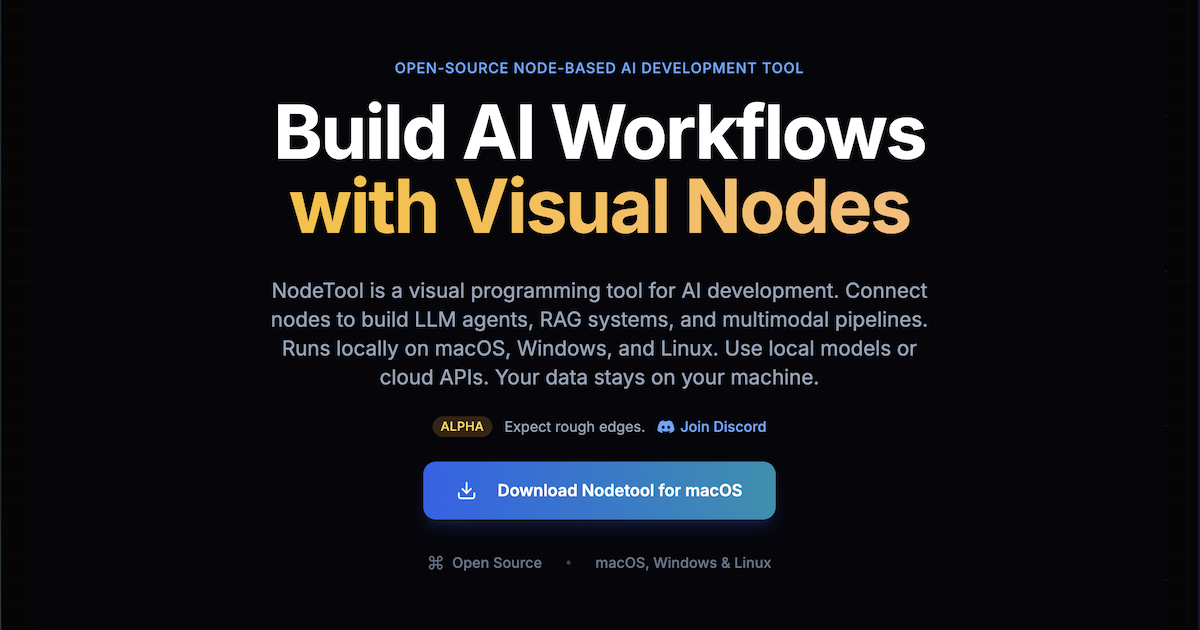
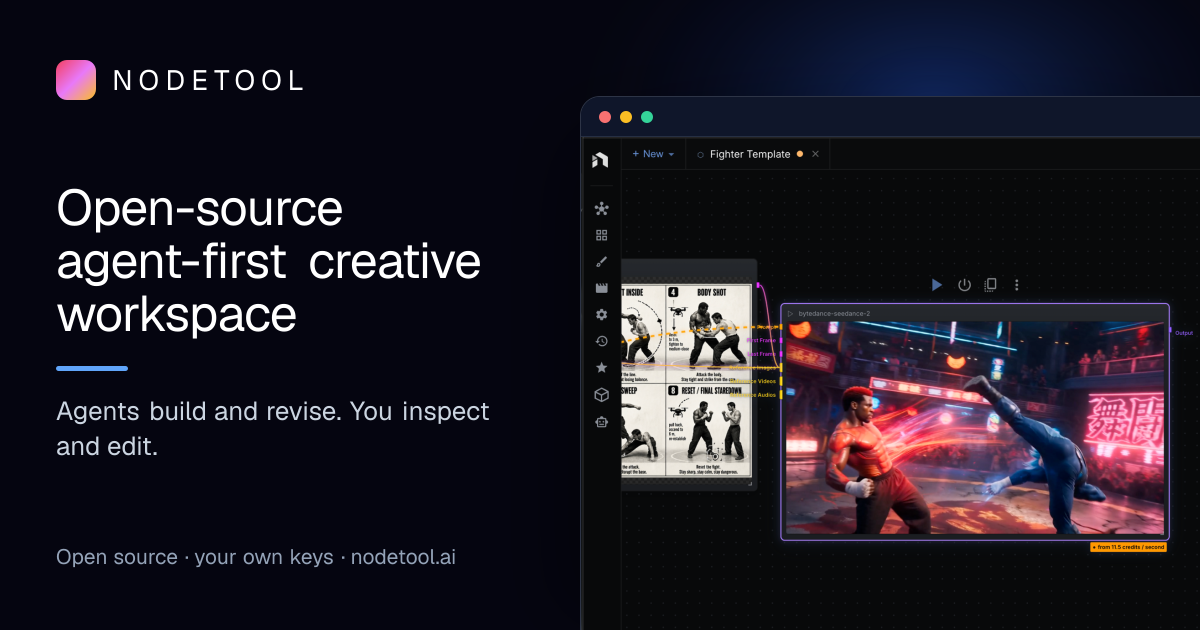
Replace stale share image and give every marketing page one
/preview.png was a screenshot of the old "Build AI Workflows with Visual
Nodes" hero with an ALPHA badge. The root layout set it as twitter:image,
which every route inherited, so X showed it even on pages with their own
card. 89 routes also had no og:image because their openGraph replaced the
root one.

- Save the root opengraph-image card as public/preview.png.
- Drop the root twitter image so Twitter falls back to each page's og:image.
- Add DEFAULT_OG_IMAGES to routes without their own opengraph-image.
- Remove the /preview.png overrides from /developers and /marketing.

Claude-Session: https://claude.ai/code/session_01Fi4CdCCnQLF3uAmpPAuaLj

diff --git a/marketing/src/app/layout.tsx b/marketing/src/app/layout.tsx
@@ -4,6 +4,7 @@ import "./globals.css";
 import Script from "next/script";
 import MotionProvider from "../components/MotionProvider";
 import JsonLd from "../components/JsonLd";
+import { DEFAULT_OG_IMAGES } from "../lib/defaultOgImage";
 import {
   organizationSchema,
   softwareApplicationSchema,
@@ -105,12 +106,7 @@ export const metadata: Metadata = {
       "Open-source agent-first creative workspace. Create images, video, audio, and text with agents, then take over and edit anything yourself. You get an editable project, not just a finished file.",
     url: "https://nodetool.ai",
     siteName: "NodeTool",
-    images: [
-      {
-        url: "/preview.png",
-        alt: "NodeTool | Open-source agent-first creative workspace",
-      },
-    ],
+    images: DEFAULT_OG_IMAGES,
     locale: "en_US",
     type: "website",
   },
@@ -118,7 +114,6 @@ export const metadata: Metadata = {
   // openGraph, which a root value would override on every child route.
   twitter: {
     card: "summary_large_image",
-    images: ["/preview.png"],
   },
 };
 

diff --git a/marketing/src/app/faq/page.tsx b/marketing/src/app/faq/page.tsx
@@ -7,6 +7,7 @@ import TrackedLink from "@/components/TrackedLink";
 import FaqBlock from "@/components/FaqBlock";
 import { breadcrumbSchema, faqPageSchema } from "@/lib/jsonld";
 import { faqByCategory, faqEntries } from "@/data/faqEntries";
+import { DEFAULT_OG_IMAGES } from "@/lib/defaultOgImage";
 
 export const metadata: Metadata = {
   title: "NodeTool FAQ — the agent-first creative workspace",
@@ -14,6 +15,7 @@ export const metadata: Metadata = {
     "Answers about NodeTool: how pricing with your own API keys works, Studio compared with Cloud, which models are supported, how it compares with other tools, and a short glossary of common terms.",
   alternates: { canonical: "/faq" },
   openGraph: {
+    images: DEFAULT_OG_IMAGES,
     title: "NodeTool FAQ",
     description:
       "Pricing with your own keys, Studio compared with Cloud, supported models, comparisons, and a short glossary.",

diff --git a/marketing/src/app/templates/page.tsx b/marketing/src/app/templates/page.tsx
@@ -10,6 +10,7 @@ import TrackedLink from "@/components/TrackedLink";
 import { SmartDownloadButton } from "@/app/SmartDownloadButton";
 import { templateEntries, type TemplateEntry } from "@/data/templates";
 import { recipeEntries } from "@/data/recipes";
+import { DEFAULT_OG_IMAGES } from "@/lib/defaultOgImage";
 
 const BASE_URL = "https://nodetool.ai";
 
@@ -19,6 +20,7 @@ export const metadata: Metadata = {
     "Browse editable NodeTool workflow templates for image, video, audio, agents, and marketing. Open any in Studio, or explore simplified runnable mini apps.",
   alternates: { canonical: `${BASE_URL}/templates` },
   openGraph: {
+    images: DEFAULT_OG_IMAGES,
     title: "AI Workflow Templates — NodeTool",
     description:
       "Browse editable NodeTool workflow templates for image, video, audio, agents, and marketing. Open any in Studio, or explore simplified runnable mini apps.",

diff --git a/marketing/src/app/recipes/page.tsx b/marketing/src/app/recipes/page.tsx
@@ -6,6 +6,7 @@ import JsonLd from "@/components/JsonLd";
 import TrackedLink from "@/components/TrackedLink";
 import RecipeCard from "@/components/RecipeCard";
 import { recipeEntries } from "@/data/recipes";
+import { DEFAULT_OG_IMAGES } from "@/lib/defaultOgImage";
 
 const BASE_URL = "https://nodetool.ai";
 export const metadata: Metadata = {
@@ -14,6 +15,7 @@ export const metadata: Metadata = {
     "Make product ads, multilingual videos, catalogue images, and storyboards with NodeTool's guided flows. Follow each step with real UI examples.",
   alternates: { canonical: `${BASE_URL}/recipes` },
   openGraph: {
+    images: DEFAULT_OG_IMAGES,
     title: "Guided AI recipes | NodeTool",
     description:
       "Make product ads, multilingual videos, catalogue images, and storyboards with NodeTool's guided flows. Follow each step with real UI examples.",

diff --git a/marketing/src/app/ideas/page.tsx b/marketing/src/app/ideas/page.tsx
@@ -4,6 +4,7 @@ import SiteHeader from "@/components/SiteHeader";
 import SiteFooter from "@/components/SiteFooter";
 import JsonLd from "@/components/JsonLd";
 import { ideaCategories } from "@/data/ideasEntries";
+import { DEFAULT_OG_IMAGES } from "@/lib/defaultOgImage";
 
 export const metadata: Metadata = {
   title: "AI workflow ideas — NodeTool",
@@ -11,6 +12,7 @@ export const metadata: Metadata = {
     "Ideas for what to build in NodeTool, grouped by category: image and video generation, audio and voice, agents and research, marketing content, and data workflows.",
   alternates: { canonical: "/ideas" },
   openGraph: {
+    images: DEFAULT_OG_IMAGES,
     title: "AI workflow ideas — NodeTool",
     description:
       "What to build in NodeTool: image, video, audio, agents, marketing, and data workflows.",

diff --git a/marketing/src/app/showcase/workflow/[slug]/page.tsx b/marketing/src/app/showcase/workflow/[slug]/page.tsx
@@ -6,6 +6,7 @@ import SiteFooter from "@/components/SiteFooter";
 import JsonLd from "@/components/JsonLd";
 import { showcaseEntries, showcaseWorkflows, humanize } from "@/data/showcase";
 import { ShowcaseGrid } from "../../_components";
+import { DEFAULT_OG_IMAGES } from "@/lib/defaultOgImage";
 
 const BASE_URL = "https://nodetool.ai";
 
@@ -29,6 +30,7 @@ export async function generateMetadata({
     description: `Every showcase image and video from the ${label} workflow on NodeTool.`,
     alternates: { canonical: `/showcase/workflow/${slug}` },
     openGraph: {
+      images: DEFAULT_OG_IMAGES,
       title: `${label} showcase — AI generations on NodeTool`,
       description: `Every showcase image and video from the ${label} workflow on NodeTool.`,
       url: `${BASE_URL}/showcase/workflow/${slug}`,

diff --git a/marketing/src/app/showcase/model/[slug]/page.tsx b/marketing/src/app/showcase/model/[slug]/page.tsx
@@ -6,6 +6,7 @@ import SiteFooter from "@/components/SiteFooter";
 import JsonLd from "@/components/JsonLd";
 import { showcaseEntries, showcaseModels, humanize } from "@/data/showcase";
 import { ShowcaseGrid } from "../../_components";
+import { DEFAULT_OG_IMAGES } from "@/lib/defaultOgImage";
 
 const BASE_URL = "https://nodetool.ai";
 
@@ -29,6 +30,7 @@ export async function generateMetadata({
     description: `Every showcase image and video generated with ${label} on NodeTool.`,
     alternates: { canonical: `/showcase/model/${slug}` },
     openGraph: {
+      images: DEFAULT_OG_IMAGES,
       title: `${label} showcase — AI generations on NodeTool`,
       description: `Every showcase image and video generated with ${label} on NodeTool.`,
       url: `${BASE_URL}/showcase/model/${slug}`,

diff --git a/marketing/src/app/download/page.tsx b/marketing/src/app/download/page.tsx
@@ -7,6 +7,7 @@ import JsonLd from "@/components/JsonLd";
 import DownloadPanel from "@/components/DownloadPanel";
 import DownloadStarter from "@/components/DownloadStarter";
 import { breadcrumbSchema } from "@/lib/jsonld";
+import { DEFAULT_OG_IMAGES } from "@/lib/defaultOgImage";
 
 const BASE_URL = "https://nodetool.ai";
 
@@ -16,6 +17,7 @@ export const metadata: Metadata = {
     "Get the NodeTool Studio installer for your machine, with what it needs to run and how to open it on each system. Free and open source under AGPL-3.0.",
   alternates: { canonical: `${BASE_URL}/download` },
   openGraph: {
+    images: DEFAULT_OG_IMAGES,
     title: "Download NodeTool Studio",
     description:
       "The free, open-source agent-first creative workspace for macOS, Windows and Linux.",

diff --git a/marketing/src/app/ad-library/[slug]/page.tsx b/marketing/src/app/ad-library/[slug]/page.tsx
@@ -15,6 +15,7 @@ import AdBeatSequence from "@/components/adLibrary/AdBeatSequence";
 import { ComplexityMeter } from "@/components/adLibrary/AdConceptCard";
 import { adRecipes, formatKey } from "@/data/adLibrary";
 import type { AdRecipe } from "@/data/adLibrary";
+import { DEFAULT_OG_IMAGES } from "@/lib/defaultOgImage";
 
 interface AdRecipePageProps {
   readonly params: Promise<{ slug: string }>;
@@ -36,6 +37,7 @@ export async function generateMetadata({
     description: recipe.objective,
     alternates: { canonical: `https://nodetool.ai${recipe.route}` },
     openGraph: {
+      images: DEFAULT_OG_IMAGES,
       title: recipe.title,
       description: recipe.objective,
       url: `https://nodetool.ai${recipe.route}`,

diff --git a/marketing/src/app/developers/layout.tsx b/marketing/src/app/developers/layout.tsx
@@ -29,12 +29,6 @@ export const metadata: Metadata = {
       "One command connects NodeTool to your coding agent. Ask for images, video, speech, or a whole workflow in plain words.",
     url: "https://nodetool.ai/developers",
     siteName: "NodeTool",
-    images: [
-      {
-        url: "/preview.png",
-        alt: "NodeTool for developers",
-      },
-    ],
     locale: "en_US",
     type: "website",
   },
@@ -43,7 +37,6 @@ export const metadata: Metadata = {
     title: "NodeTool for Developers",
     description:
       "Give Claude Code, Codex, or Cursor images, video, speech, and repeatable workflows over MCP. Open source under AGPL-3.0.",
-    images: ["/preview.png"],
   },
 };
 

diff --git a/marketing/src/app/ad-library/page.tsx b/marketing/src/app/ad-library/page.tsx
@@ -3,6 +3,7 @@ import MarketingPageShell from "@/components/MarketingPageShell";
 import AdLibraryOverview from "@/components/AdLibraryOverview";
 import JsonLd from "@/components/JsonLd";
 import { adLibraryEntries, adRecipes } from "@/data/adLibrary";
+import { DEFAULT_OG_IMAGES } from "@/lib/defaultOgImage";
 
 const entry = adLibraryEntries[0];
 export const metadata: Metadata = {
@@ -10,6 +11,7 @@ export const metadata: Metadata = {
   description: entry.description,
   alternates: { canonical: "https://nodetool.ai/ad-library" },
   openGraph: {
+    images: DEFAULT_OG_IMAGES,
     title: entry.title,
     description: entry.description,
     url: "https://nodetool.ai/ad-library"

diff --git a/marketing/src/app/marketing/layout.tsx b/marketing/src/app/marketing/layout.tsx
@@ -27,12 +27,6 @@ export const metadata: Metadata = {
       "From the first idea through to delivery: product videos, ad creative, thumbnails, and brand assets, from every major model, on your own keys.",
     url: "https://nodetool.ai/marketing",
     siteName: "NodeTool",
-    images: [
-      {
-        url: "/preview.png",
-        alt: "NodeTool Marketing Workflow Canvas",
-      },
-    ],
     locale: "en_US",
     type: "website",
   },
@@ -41,7 +35,6 @@ export const metadata: Metadata = {
     title: "AI for Advertising | NodeTool",
     description:
       "Every model. Your keys. Your agent. Advertising production end to end.",
-    images: ["/preview.png"],
   },
 };
 
